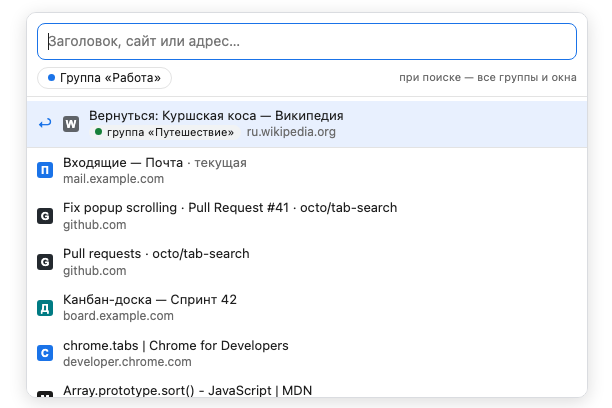
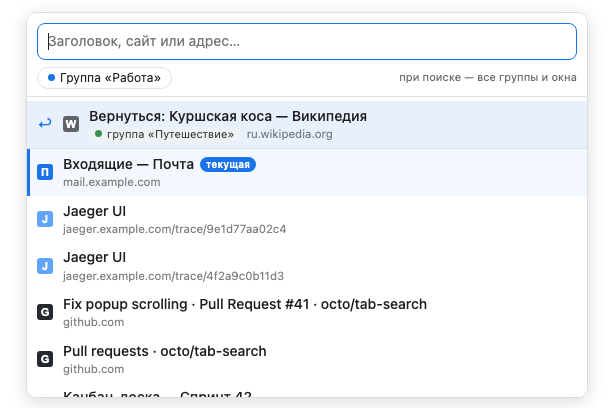
1.1.0: скриншоты под новый вид и список изменений для каталога

Changed region(s): [[0.0621, 0.5, 0.7141, 0.9118], [0.031, 0.2647, 0.9624, 0.4706], [0.0621, 0.9412, 0.5278, 0.9706]]

diff --git a/dev/mock-chrome.js b/dev/mock-chrome.js
@@ -29,6 +29,8 @@
     ['Канбан-доска — Спринт 42', 'https://board.example.com/sprint-42', 7, 1, fav('Д', '#007b83')],
     ['Pull requests · octo/tab-search', 'https://github.com/octo/tab-search/pulls', 7, 1, fav('G', '#24292f')],
     ['Fix popup scrolling · Pull Request #41 · octo/tab-search', 'https://github.com/octo/tab-search/pull/41', 7, 1, fav('G', '#24292f')],
+    ['Jaeger UI', 'https://jaeger.example.com/trace/4f2a9c0b11d3', 7, 1, fav('J', '#60a5fa')],
+    ['Jaeger UI', 'https://jaeger.example.com/trace/9e1d77aa02c4', 7, 1, fav('J', '#60a5fa')],
     ['Входящие — Почта', 'https://mail.example.com/inbox', 7, 1, fav('П', '#1a73e8')],
   ];
 

diff --git a/store/opera-listing.md b/store/opera-listing.md
@@ -69,6 +69,24 @@ Privacy: no network requests, nothing is sent anywhere. Tab data is used only in
 
 Note: the interface is currently in Russian.
 
+## Что нового (changelog для версий)
+
+### 1.1.0
+
+RU:
+- Вкладка, на которой открыт поиск, отмечена синей полосой и плашкой «текущая» — её видно, даже если выбрать другую строку.
+- У вкладок с одинаковыми заголовками под заголовком виден полный адрес страницы, длинный адрес сокращается в середине. Полный адрес показывается и когда запрос нашёлся только в адресе.
+- Заголовки вкладок крупнее, адрес — спокойнее: список легче читать.
+
+EN:
+- The tab you opened the search from is marked with a blue bar and a "текущая" (current) badge, visible even when another row is selected.
+- Tabs with identical titles show their full address, shortened in the middle if long. The full address is also shown when the query matched only in the URL.
+- Larger tab titles and a quieter address line make the list easier to scan.
+
+### 1.0.0
+
+Первая версия.
+
 ## Обоснование разрешений (если спросят на ревью)
 
 - `tabs` — заголовки и адреса вкладок для поиска, переключение на найденную вкладку, закрытие по «×».
